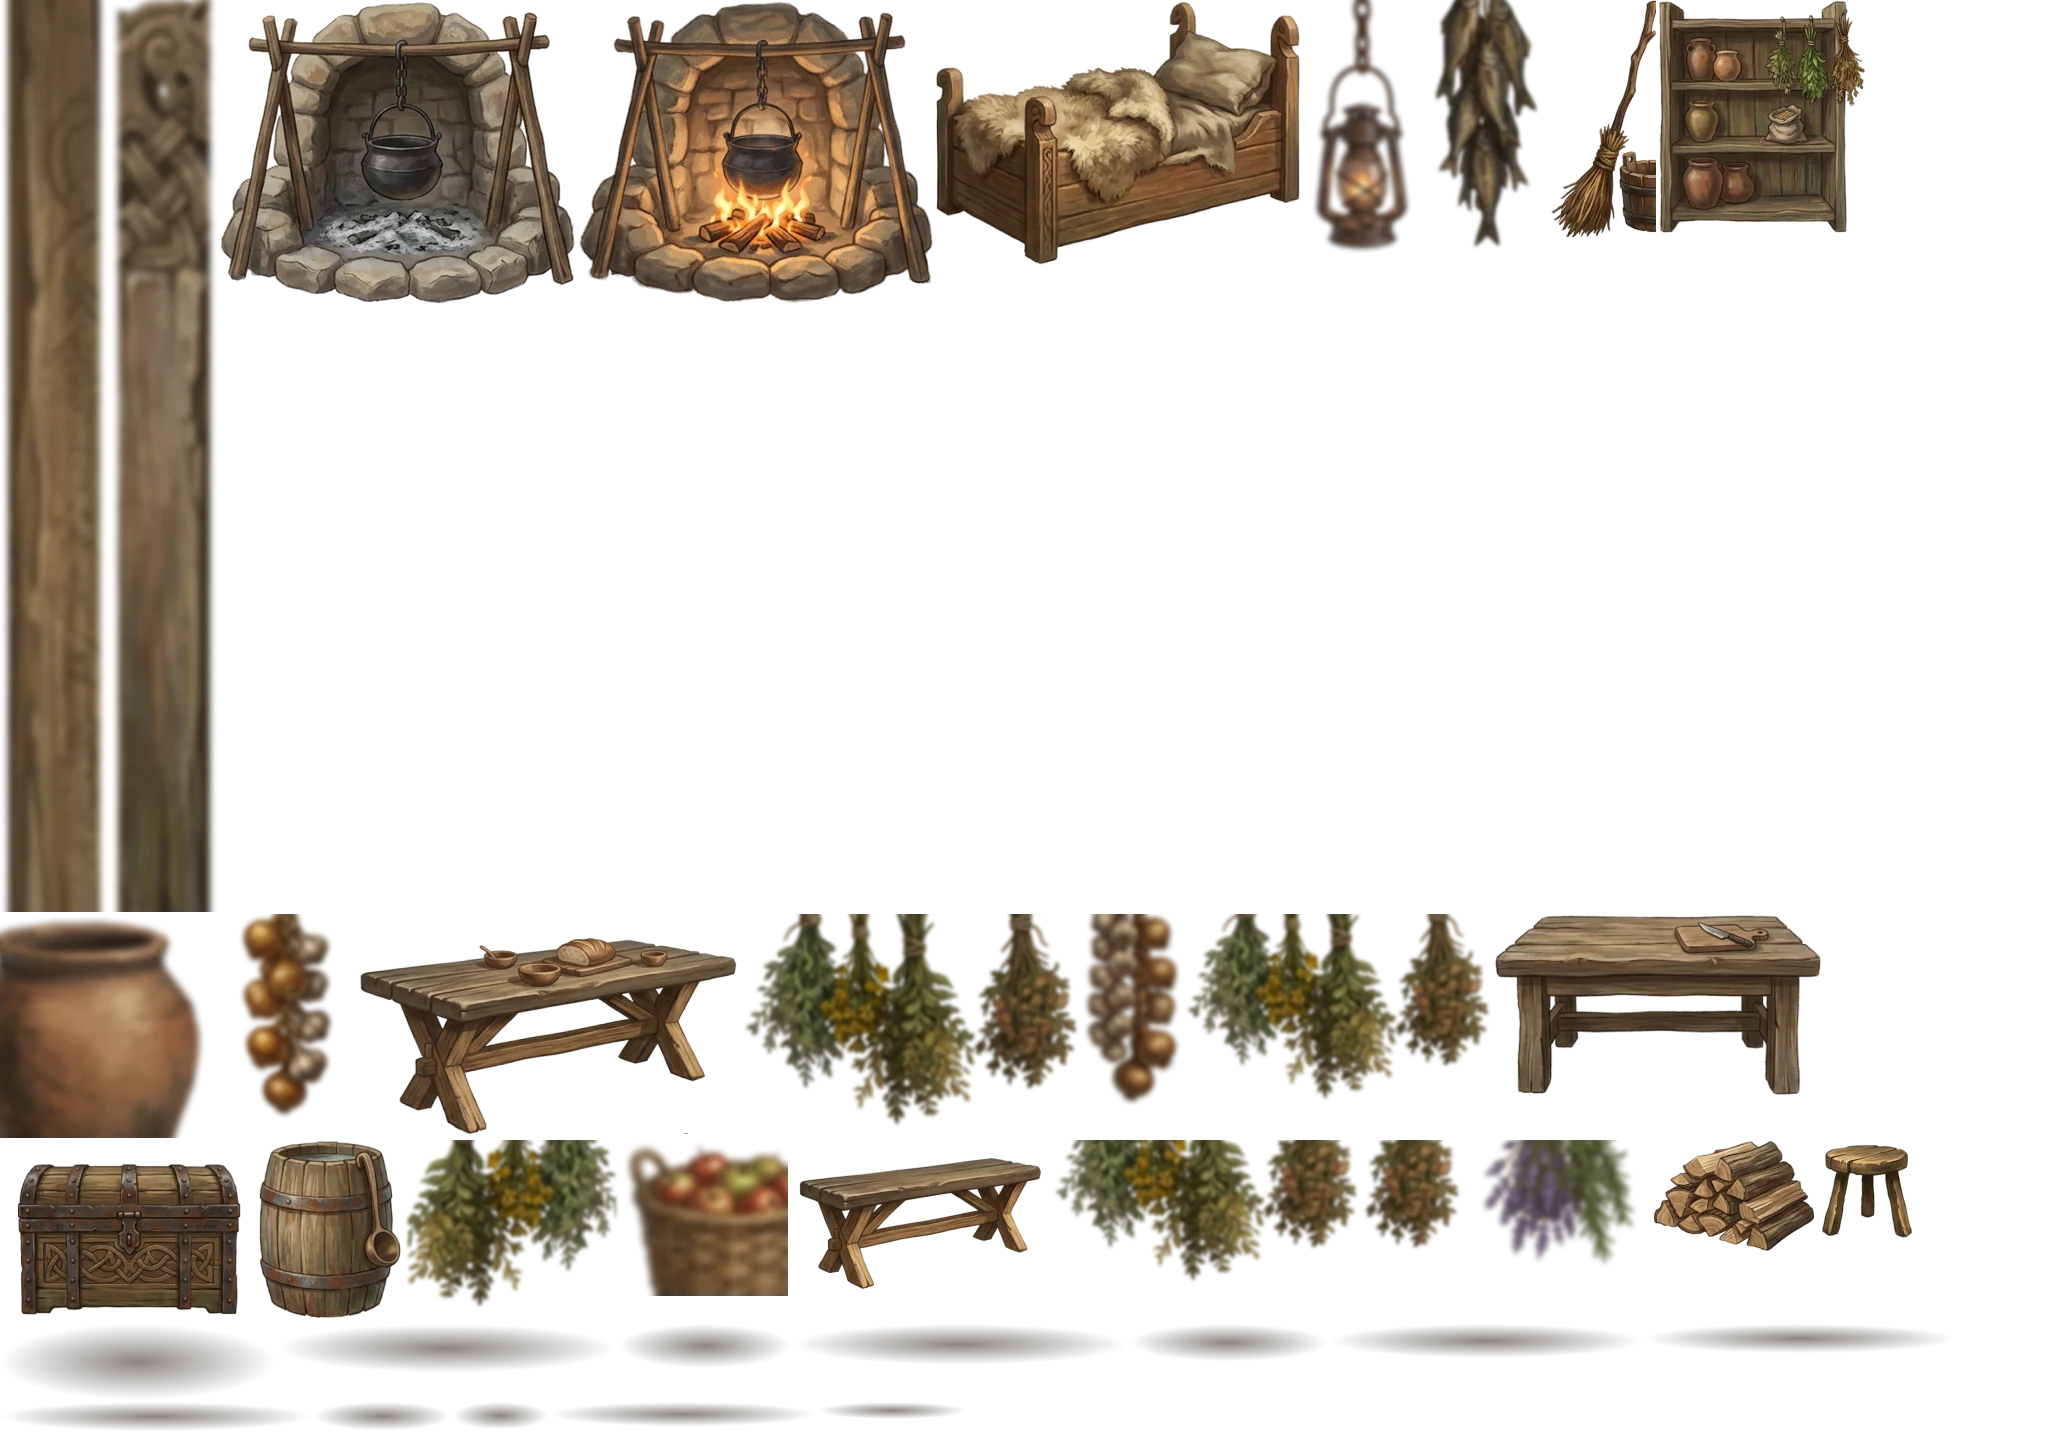
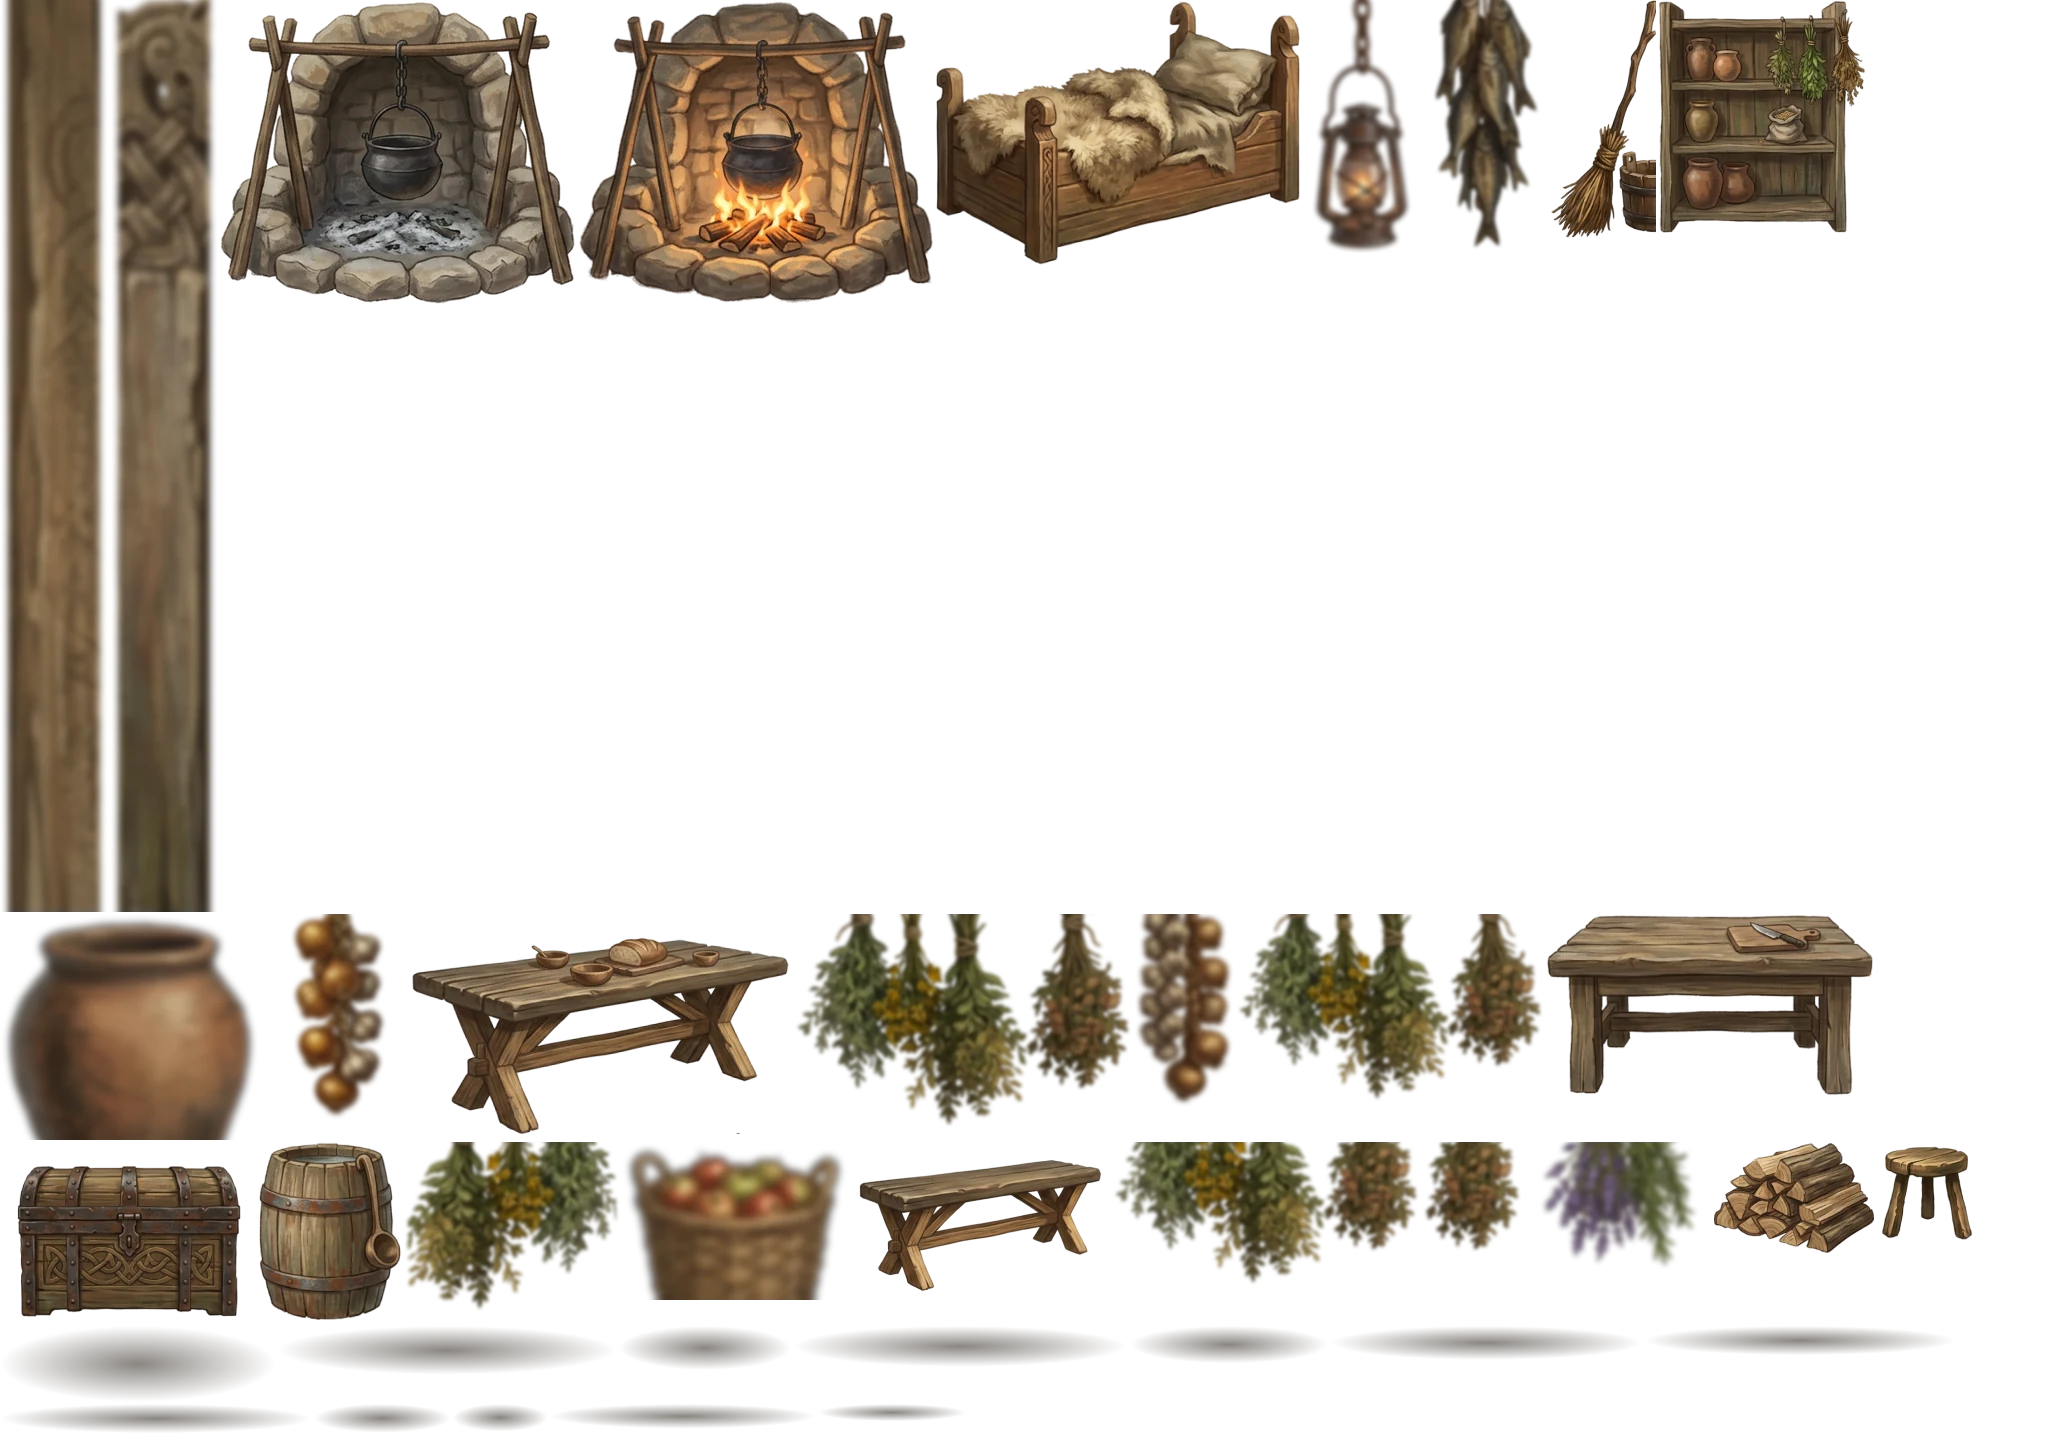
v144: bigger oak for Zmey; house corner foreground items no longer clipped, left post moved off the hearth, gentler parallax

Changed region(s): [[0.0, 0.6145, 0.9688, 0.9218]]

diff --git a/index.html b/index.html
@@ -233,7 +233,7 @@ body.overview .hud, body.overview .stick-zone, body.overview .guide, body.overvi
 <script>
 // ===================== Общие настройки =====================
 const DPR = Math.min(window.devicePixelRatio || 1, 3);
-const GAME_VERSION = 142;   // совпадает с номером в sw.js (farm-vN); видно в окне «Заново»
+const GAME_VERSION = 144;   // совпадает с номером в sw.js (farm-vN); видно в окне «Заново»
 // Слои земли (трава, дорожки, поля, тени) — глубже любых персонажей и деревьев, даже с отрицательной y
 const GROUND = -5000;
 // Карта: y от −1000 до 2000. Верх (y < 0) — поле с пшеницей, низ (y > 1000) — пастбище Нанамина
@@ -1073,8 +1073,8 @@ function showFinal() {
 const HX = 6000, HY = 200, HW = 1283, HH = 456;
 const GRANDPA_LOOK = { skin: 0xE6B38C, dress: 0x667083, belly: true, belt: 0x2E2A28, buckle: 0x55504A, legs: 0x4E5560, scarf: 0xBDB8A2,
   hair: 'bald', hairColor: 0xC4C0B6, goatee: true, heavyLids: true, handsBehind: true, noBlush: true, calm: true };
-const HOUSE_FRAMES = {"h31":[0,0,108,912],"h33":[110,0,108,912],"hcold":[220,0,356,305],"h8":[578,0,356,305],"h1":[936,0,364,266],"h29":[1302,0,120,262],"h30":[1424,0,124,260],"h17":[1550,0,106,238],"h6":[1658,0,208,234],"h26":[0,914,208,224],"h28":[210,914,146,224],"h35":[358,914,382,220],"h24":[742,914,338,214],"h25":[1082,914,100,194],"h20":[1184,914,308,188],"h12":[1494,914,328,183],"h32":[0,1140,256,182],"h4":[258,1140,144,180],"h23":[404,1140,216,170],"h27":[622,1140,166,156],"h2":[790,1140,260,152],"h21":[1052,1140,308,144],"h22":[1362,1140,100,144],"h34":[1464,1140,188,144],"h14":[1654,1140,160,112],"h36":[1816,1140,104,104],"h18":[0,1324,276,76],"h7":[278,1324,339,49],"h19":[619,1324,172,44],"h15":[793,1324,335,41],"h5":[1130,1324,198,38],"h11":[1330,1324,312,34],"h9":[1644,1324,312,30],"h10":[0,1402,312,30],"h3":[314,1402,137,29],"h16":[453,1402,95,28],"h0":[550,1402,266,25],"h13":[818,1402,149,18]};
-const HOUSE_ITEMS = [["h0","тень лавка",647,364,133,12.3,0],["h1","лежанка",1051,265,182,133,0],["h2","furniture-1",775,313,130,76,0],["h3","тень бочка",35.8,377.2,68.4,14.3,0],["h4","бочка с водой",34,294.7,72,89.6,0],["h5","тень полка",118.6,371,98.8,18.7,0],["h6","полка",116,263.5,104,116.8,0],["h7","тень очаг",237.5,374.1,169.1,24.4,0],["h8","очаг",233,234.1,178,152.2,0],["h9","тень стол",412.1,381,155.8,14.6,0],["h10","тень",775,372,155.8,14.6,0],["h11","тень",642,362,156,17,0],["h12","стол с доской",408,297,164,91.3,0],["h13","тень дрова",563,380,74.1,8.6,0],["h14","дрова",563,340,80,56,0],["h15","тень лежанка",1041.4,374.1,167.2,20.4,0],["h16","тень метла",1226.3,381.5,47.5,13.7,0],["h17","метла с ведром",1230,271,53,119,0],["h18","тень стол ужин",826,384,138,38,0],["h19","тень",973,371,86,22,0],["h20","травы",91,0,154,94,1],["h21","травы",478,0,154,72,1],["h22","травы",826,0,50,72,1],["h23","травы",276,0,108,85,1],["h24","травы",973,0,169,107,1],["h25","лук",433,0,50,97,1],["h26","горшок",0,344,104,112,1],["h27","корзина",1200,378,83,78,1],["h28","лук2",1134,0,73,112,1],["h29","лампа",1196,0,60,131,1],["h30","рыба",910,0,62,130,1],["h31","столб",228,0,54,456,1],["h32","лавка",647,286,128,91,0],["h33","резной столб",713,0,54,456,1],["h34","лаванда",13,0,94,72,1],["h35","стол для ужина",798,303,191,110,0],["h36","табурет",987,338,52,52,0]];
+const HOUSE_FRAMES = {"h31":[0,0,108,912],"h33":[110,0,108,912],"hcold":[220,0,356,305],"h8":[578,0,356,305],"h1":[936,0,364,266],"h29":[1302,0,120,262],"h30":[1424,0,124,260],"h17":[1550,0,106,238],"h6":[1658,0,208,234],"h26":[0,914,260,226],"h28":[262,914,146,224],"h35":[410,914,382,220],"h24":[794,914,338,214],"h25":[1134,914,100,194],"h20":[1236,914,308,188],"h12":[1546,914,328,183],"h32":[0,1142,256,182],"h4":[258,1142,144,180],"h23":[404,1142,216,170],"h27":[622,1142,226,158],"h2":[850,1142,260,152],"h21":[1112,1142,308,144],"h22":[1422,1142,100,144],"h34":[1524,1142,188,144],"h14":[1714,1142,160,112],"h36":[1876,1142,104,104],"h18":[0,1326,276,76],"h7":[278,1326,339,49],"h19":[619,1326,172,44],"h15":[793,1326,335,41],"h5":[1130,1326,198,38],"h11":[1330,1326,312,34],"h9":[1644,1326,312,30],"h10":[0,1404,312,30],"h3":[314,1404,137,29],"h16":[453,1404,95,28],"h0":[550,1404,266,25],"h13":[818,1404,149,18]};
+const HOUSE_ITEMS = [["h0","тень лавка",647,364,133,12.3,0],["h1","лежанка",1051,265,182,133,0],["h2","furniture-1",775,313,130,76,0],["h3","тень бочка",35.8,377.2,68.4,14.3,0],["h4","бочка с водой",34,294.7,72,89.6,0],["h5","тень полка",118.6,371,98.8,18.7,0],["h6","полка",116,263.5,104,116.8,0],["h7","тень очаг",237.5,374.1,169.1,24.4,0],["h8","очаг",233,234.1,178,152.2,0],["h9","тень стол",412.1,381,155.8,14.6,0],["h10","тень",775,372,155.8,14.6,0],["h11","тень",642,362,156,17,0],["h12","стол с доской",408,297,164,91.3,0],["h13","тень дрова",563,380,74.1,8.6,0],["h14","дрова",563,340,80,56,0],["h15","тень лежанка",1041.4,374.1,167.2,20.4,0],["h16","тень метла",1226.3,381.5,47.5,13.7,0],["h17","метла с ведром",1230,271,53,119,0],["h18","тень стол ужин",826,384,138,38,0],["h19","тень",973,371,86,22,0],["h20","травы",91,0,154,94,1],["h21","травы",478,0,154,72,1],["h22","травы",826,0,50,72,1],["h23","травы",276,0,108,85,1],["h24","травы",973,0,169,107,1],["h25","лук",433,0,50,97,1],["h26","горшок",-25,343,130,113,1],["h27","корзина",1199,377,113,79,1],["h28","лук2",1134,0,73,112,1],["h29","лампа",1196,0,60,131,1],["h30","рыба",910,0,62,130,1],["h31","столб",161,0,54,456,1],["h32","лавка",647,286,128,91,0],["h33","резной столб",713,0,54,456,1],["h34","лаванда",13,0,94,72,1],["h35","стол для ужина",798,303,191,110,0],["h36","табурет",987,338,52,52,0]];
 const HOUSE_FLOOR = [HY + 392, HY + 448];                       // где можно ходить (по высоте)
 const HOUSE_STATIONS = {                                         // станции готовки: центр и верх (для облачка)
   barrel: { x: HX + 70, top: HY + 295 }, shelf: { x: HX + 168, top: HY + 264 },
@@ -1128,7 +1128,7 @@ function updateHouse(dt, force) {
   const cx = Phaser.Math.Clamp(player.x, HX + viewW / 2, HX + HW - viewW / 2);
   const cy = HY - topPx / z + viewH / 2;
   cam.centerOn(cx, cy);
-  for (const f of house.fg) f.x = f.baseX - (cx - (HX + HW / 2)) * 0.12;   // передний план — чуть быстрее
+  for (const f of house.fg) f.x = f.baseX - (cx - (HX + HW / 2)) * 0.06;   // передний план — чуть быстрее
   if (force) {
     $('recipe').style.top = (topPx - 44) + 'px';
     $('shelf').style.top = Math.round(topPx + HH * z + 14) + 'px';
@@ -2348,7 +2348,7 @@ const PLANTS = [
   ['tree-4', -465, 700, 0.9], ['poplar-1', 660, 120, 1], ['bush-1', 370, 255, 1],
   // огород: середина
   ['tree-1', -310, 580, 1], ['bush-2', 470, 505, 0.9], ['bush-4', 120, 700, 1], ['bush-1', -200, 582, 0.85],
-  ['s2-oak-2', -520, 972, 1.15],   // большой зелёный дуб у забора — под ним дремлет Змей (v142)
+  ['s2-oak-2', -535, 974, 1.5],   // большой зелёный дуб у забора — под ним дремлет Змей (v142)
   // огород: низ — большое дерево и группа
   ['s1-oak-1', 175, 1000, 1], ['s1-grove-1', 470, 1075, 1],   // сдвинута за забор, чтобы не наезжать на грядки (v106)
   // курятник

diff --git a/sw.js b/sw.js
@@ -4,7 +4,7 @@
 //  • картинки и движок — сразу из сохранённой копии (без похода в сеть при каждом запуске).
 //    Когда выходит новая версия (меняется CACHE), новый service worker при установке
 //    заново скачивает все файлы с меткой версии — гарантированно свежие.
-const CACHE = 'farm-v142';
+const CACHE = 'farm-v144';
 const CORE = [
   './',
   './index.html',
